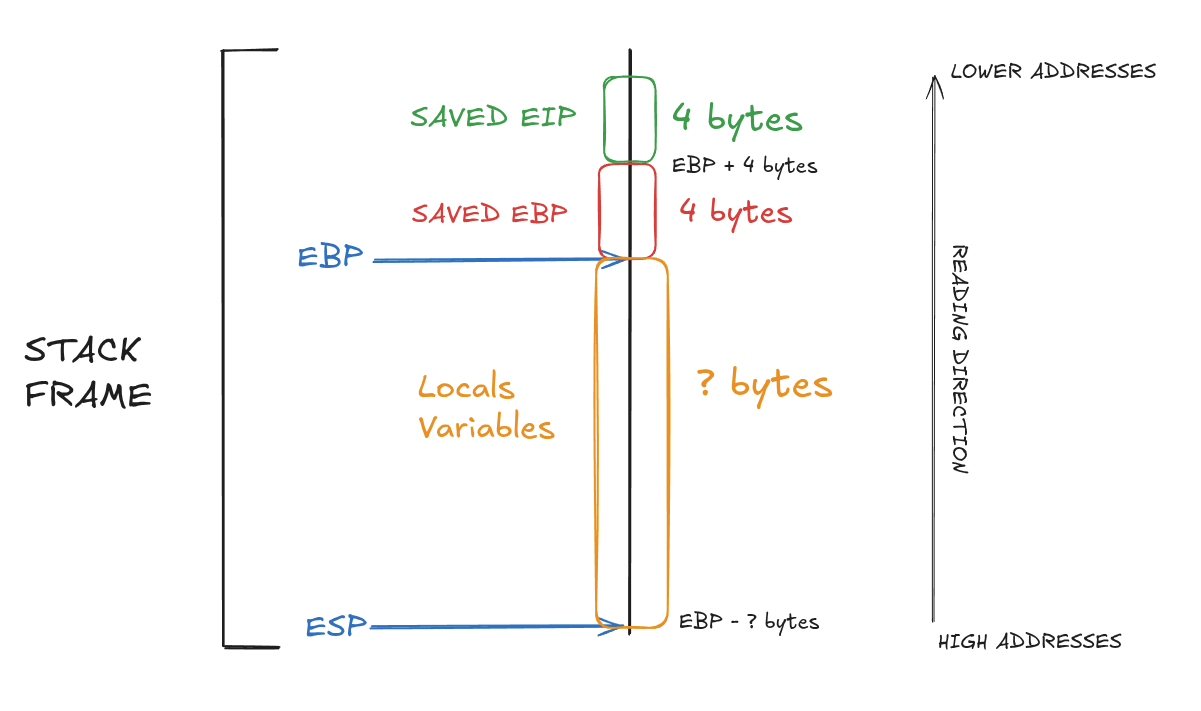
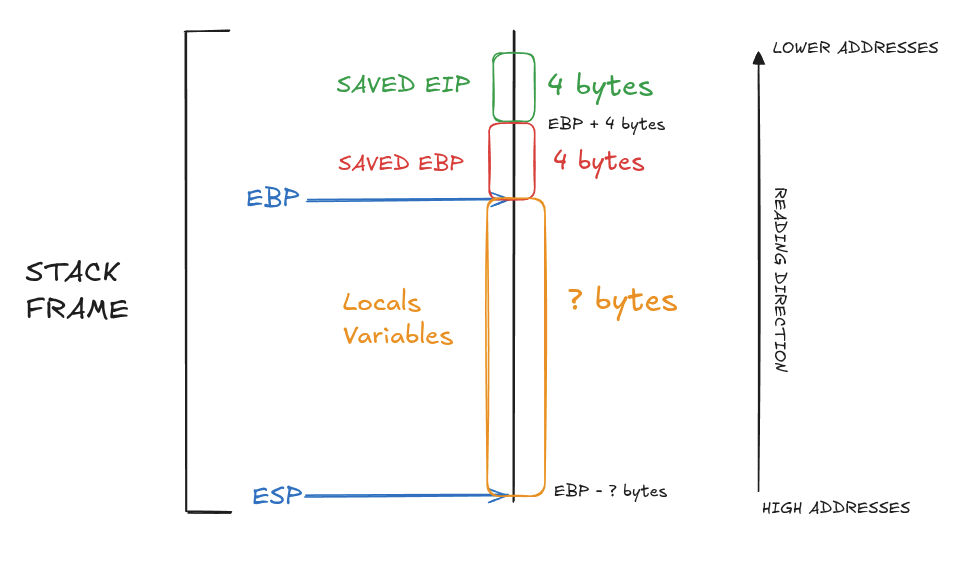
[EDIT] small edits on level{1, 2, 3, 4, 5, 6}  + [ADD] {level6} {flag, sources, walthroug - finished} + level7 {flag, sources, walkthrough started}

diff --git a/level6/walkthrough-template.md b/level6/walkthrough-template.md
@@ -38,38 +38,138 @@ These tests indicate a **buffer overflow vulnerability** (here triggered with 72
 
 ## 2. Analyze The Executable
 
-blablabla
+```
+(gdb) info functions 
+All defined functions:
+
+Non-debugging symbols:
+[...]
+0x08048454  n
+0x08048468  m
+0x0804847c  main
+[...]
+```
+
+Using the gdb command `info functions`, we can list all functions present in the binary.
+Here, we find 3 interesting functions: `main`, `n` and `m`.
+
+### Program Behavior
+
+#### main function
+
+The `main` function **allocates memory** for the local variable **`__dest`**, used as **buffer**, using **`malloc()`**, with a size of **`0x40 bytes`** (64 in decimal).
+
+It then calls `malloc()` again to allocate **`4 bytes`** for the local variable **`puVar1`**, which is used as a **function pointer**.
+The **address** of the **function `m`** is **assigned** to this pointer.
+
+Next, the program **copies** the string provided as **argument** into **`__dest`** using `strcpy()`.
+The source of the copy is `*(char **)(param_2 + 4)`, which corresponds to `argv[1]` in Ghidra’s decompilation output.
+This copy is performed without any bounds checking, making it vulnerable to a buffer overflow.
+
+Finally, the program **calls** the **function pointed** to by **`puVar1`** and then returns.
+
+#### m function
+
+The `m` function prints `"Nope"` using `puts()` then returns.
+
+#### n function
+
+The `n` function **executes** `system("/bin/cat /home/user/level7/.pass")` and then returns.
+
+
+## 3. Exploit Development
+
+In this level, we can use the **Buffer Overflow Attack**. But here, this will be a **Heap based Buffer Overflow**. 
+
+### Heap Understanding
+
+To understand a **Heap Buffer Overflow**, we first need to **understand how the heap works**.
+
+The **heap** is a **memory area** used for **dynamic memory allocation**, managed by functions such as `malloc` and `free`.
+
+Unlike the stack, which follows a FILO (First In, Last Out) order and is automatically organized at each function call, the heap is **non-structured** and **updated dynamically** by the program. This lack of structure can lead to **fragmentation**, where free memory is split into multiple non-contiguous blocks.
+
+In **x86 architecture**, allocations are placed in **contiguous regions in the process’s memory**, and each allocation is associated with **metadata** used by the memory allocator. This metadata is usually placed **just before the usable memory area** and can include **size**, **state** (free or allocated), **pointers to neighboring blocks**, and **flags**. Each allocated block is often called a **chunk**, and free chunks are organized in **bins or free lists** to optimize memory management.
+
+When an **allocation occurs** on the **heap**:
+- The **allocator selects** a **suitable memory region**.
+- It **sets up** the **metadata** for that chunk.
+- It **returns a pointer** to the **beginning of the usable memory area** to the program.
+
+![img](Ressources/heap-layout.png)
+
+---
+
+To better understand the overall picture, here is a **simplified view of a process’s memory space** as seen by the **CPU** (virtual memory):
+
+![img](Ressources/CPU-layout.png)
+
+---
+
+### Heap Layout
+
+the **heap layout** looks like this :
+
+![img](Ressources/level6.png)
+
+---
+
+Note:
+On x86 architectures, the **heap chunk metadata size** is **8 bytes**.
+
+### Understand The Attack
+
+By **overflowing** the **`__dest` buffer**, we can overwrite the **heap metadata** and then the **memory allocated** for `puVar1`, which contains a **function pointer**.
+
+By overwriting this **function pointer** with the **address of `n()`**, the call `(*(code *)*puVar1)();` will **redirect execution** to `n()`, which prints the `.pass` file for `level7`.
+
+### Get Exploit Values
+
+First, we need to **calculate the overflow offset** required to reach the **memory area** of `puVar1` starting from `__dest`.
+
+The layout is:
 
 ```
+<__dest> → <puVar1 metadata> → <puVar1 data>  
 ```
 
-## 3.
-
+Which corresponds to:
 ```
+64 bytes (__dest) + 8 bytes (heap metadata) → <puVar1 data>  
+```
+
+Therefore, the required offset is **72 bytes**.
+
+---
+
+Next, we need the **address of the function `n()`**.
+
+Using `gdb`, we obtain:
+
+```bash
+(gdb) p n
+$1 = {<text variable, no debug info>} 0x8048454 <n>
+```
+
+The **target address** is therefore : `0x8048454`. In little-endian format:
+```
+\x54\x84\x04\x08
+```
+
+### Create the Payload
+
+```bash
+python -c "print 'a' * 72 + '\x54\x84\x04\x08'"
 ```
 
 **Explanation:**
-- ``				: blablabla.
-- `` 				: blablabla.
-- `` 				: blablabla.
-
-## 4.
-
-```
-```
-
-**Explanation:**
-- ``				: blablabla.
-- `` 				: blablabla.
-- `` 				: blablabla.
+- `python`			: launches the Python interpreter.
+- `-c` 				: executes the command passed as a string.
+- `print` 			: outputs data to standard output.
 
 ## 4. Get The Flag
 
 ```bash
-> su flagXX
-Password: 
-Don't forget to launch getflag !
-
-> getflag
-Check flag.Here is your token : XXX
+level6@RainFall:~$ ./level6 $(python -c "print 'a' * 72 + '\x54\x84\x04\x08'")
+XXX
 ```

diff --git a/level1/walkthrough-template.md b/level1/walkthrough-template.md
@@ -60,6 +60,8 @@ Our goal is to **redirect execution** to the `run` function, which spawns a shel
 
 This can be achieved by **exploiting** the **buffer overflow vulnerabilty** in `local_50`, which receives the result of `gets()`.
 
+---
+
 A **buffer overflow attack** consists of **writing more data** than the allocated space of a **local variable on the stack**, allowing us to overwrite critical values such as saved registers.
 
 ### Stack Understanding
@@ -81,6 +83,7 @@ This means that **local variables** are located **below the saved EBP**, and **o
 ![img](Ressources/stack-frame.png)
 
 ---
+
 Terminology :
 - **Callee** : The function that calls another function.
 - **Caller** : The function that is being called.
@@ -105,8 +108,30 @@ For this binary, the stack layout looks like this :
 
 ![img](Ressources/level1.png)
 
-### 3.a Exploit with `run()`
+---
 
+Note:
+`ESP` ends up at `EBP - 88 bytes` because of the **stack alignment** and **allocation** performed in the function prologue:
+
+```s
+   0x08048483 <+3>:	and    $0xfffffff0,%esp
+   0x08048486 <+6>:	sub    $0x50,%esp
+```
+
+The `and` operation with `0xfffffff0` **aligns** the **stack** on a **16-byte boundary**, effectively clearing the **lower 4 bits** of ESP.
+This results in an additional offset of **up to 8 bytes** (depending on the initial value of `ESP`).
+
+The `sub` operation with `0x50` then allocates **80 bytes** (`0x50` in decimal) for **local variables**.
+
+As a result:
+
+```
+ESP = EBP - 80 - 8 = EBP - 88 bytes
+```
+
+---
+
+### 3.a Exploit with `run()`
 
 So it need a buffer of **76** + the address to the `run()` function.
 `run` as the address `0x08048444` `\x44\x84\x04\x08` in reverse.

diff --git a/level2/walkthrough-template.md b/level2/walkthrough-template.md
@@ -69,7 +69,7 @@ Here, we find 2 interesting functions: `main` and `p`.
 #### main function
 
 
-The `main` function calls `p()` then return.
+The `main` function calls `p()` then returns.
 
 ### p function 
 
@@ -91,7 +91,7 @@ If the check passes, the program **continues normally**. The input is printed us
 
 By analyzing the **assembly dump**, we can observe that `unaff_retaddr` is actually **stored** at offset `-0xc(%ebp)`:
 
-```
+```s
    0x080484f5 <+33>:	mov    %eax,-0xc(%ebp)
    0x080484f8 <+36>:	mov    -0xc(%ebp),%eax
    0x080484fb <+39>:	and    $0xb0000000,%eax
@@ -112,6 +112,23 @@ The `and` **operation** modifies these bytes, which explains the **unexpected ch
 So, the stack layout looks like this :
 
 ![img](Ressources/level2.png)
+
+---
+
+Note:
+`ESP` ends up at `EBP - 104 bytes` because of the **allocation** performed in the function prologue:
+
+```s
+   0x080484d7 <+3>:	sub    $0x68,%esp
+```
+
+The `sub` operation with `0x68` then allocates **104 bytes** (`0x68` in decimal) for **local variables**.
+
+As a result:
+
+```
+ESP = EBP - 104
+```
 
 ---
 

diff --git a/level4/walkthrough-template.md b/level4/walkthrough-template.md
@@ -49,7 +49,7 @@ Here, we find 3 interesting functions: `main`, `n` and `p`.
 
 #### main function
 
-The `main` function calls `n()` then return.
+The `main` function calls `n()` then returns.
 
 ### n function 
 

diff --git a/level5/walkthrough-template.md b/level5/walkthrough-template.md
@@ -49,7 +49,7 @@ Here, we find 3 interesting functions: `main`, `n` and `o`.
 
 #### main function
 
-The `main` function calls `n()` then return.
+The `main` function calls `n()` then returns.
 
 
 ### n function 

diff --git a/level3/walkthrough-template.md b/level3/walkthrough-template.md
@@ -48,7 +48,7 @@ Here, we find 2 interesting functions: `main` and `v`.
 #### main function
 
 
-The `main` function calls `v()` then return.
+The `main` function calls `v()` then returns.
 
 ### v function 
 

diff --git a/level7/walkthrough-template.md b/level7/walkthrough-template.md
@@ -1,8 +1,11 @@
-# LEVELXX
+# LEVEL7
 
 ## 1. 
 
 ```
+level7@RainFall:~$ ls -l
+total 8
+-rwsr-s---+ 1 level8 users 5648 Mar  9  2016 level7
 ```
 
 blablabla
